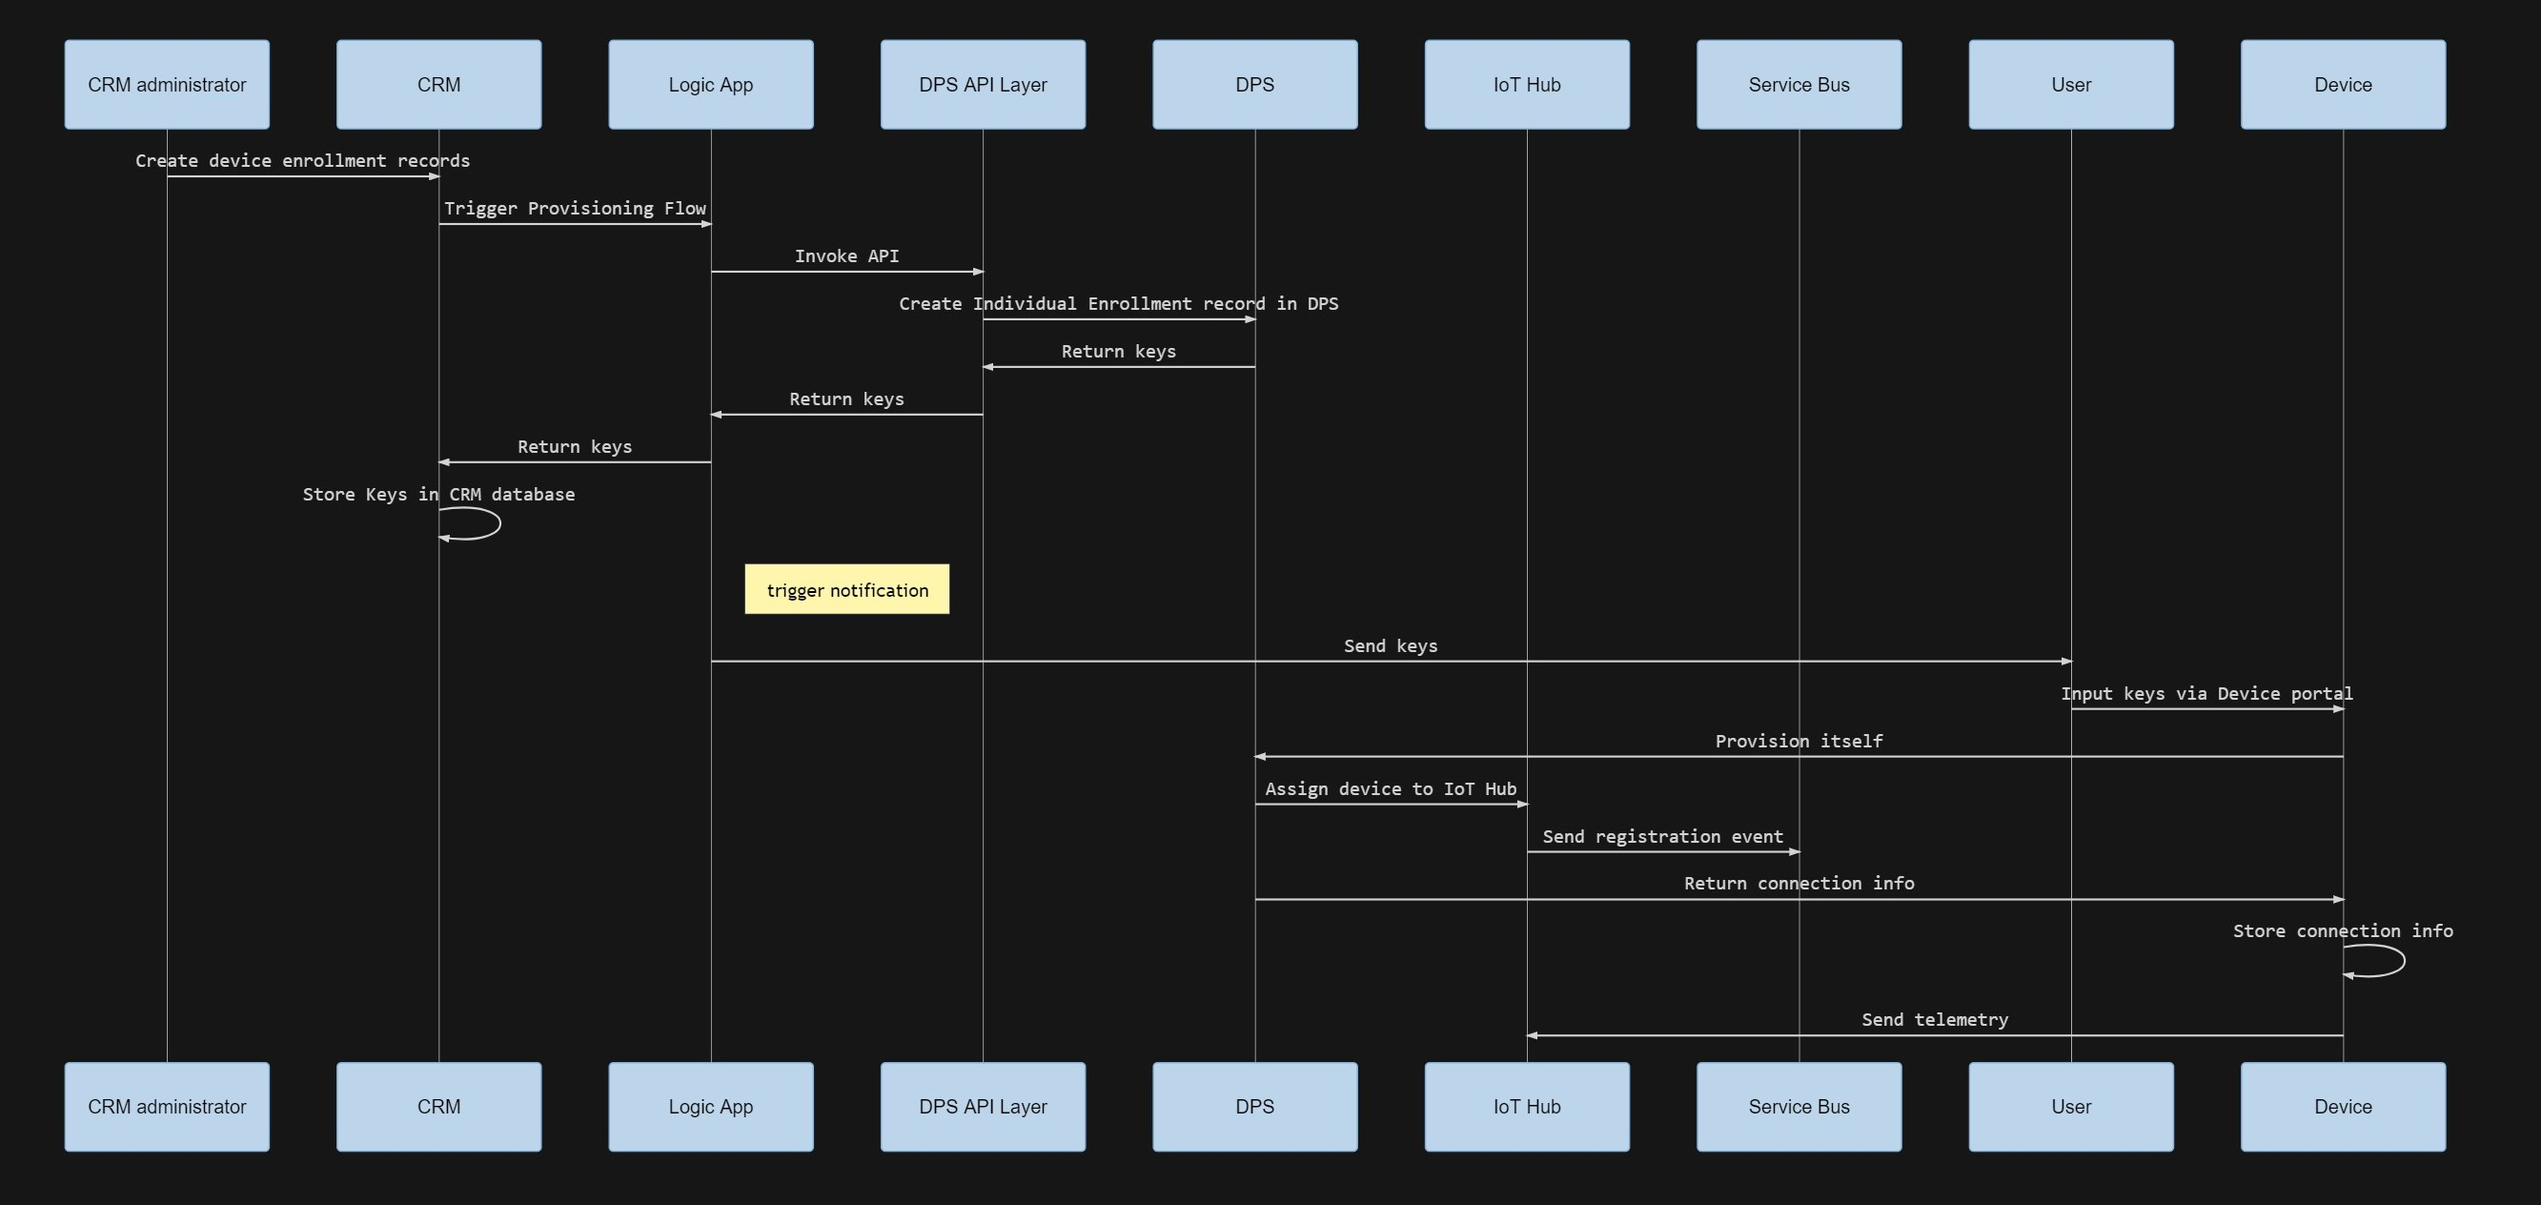
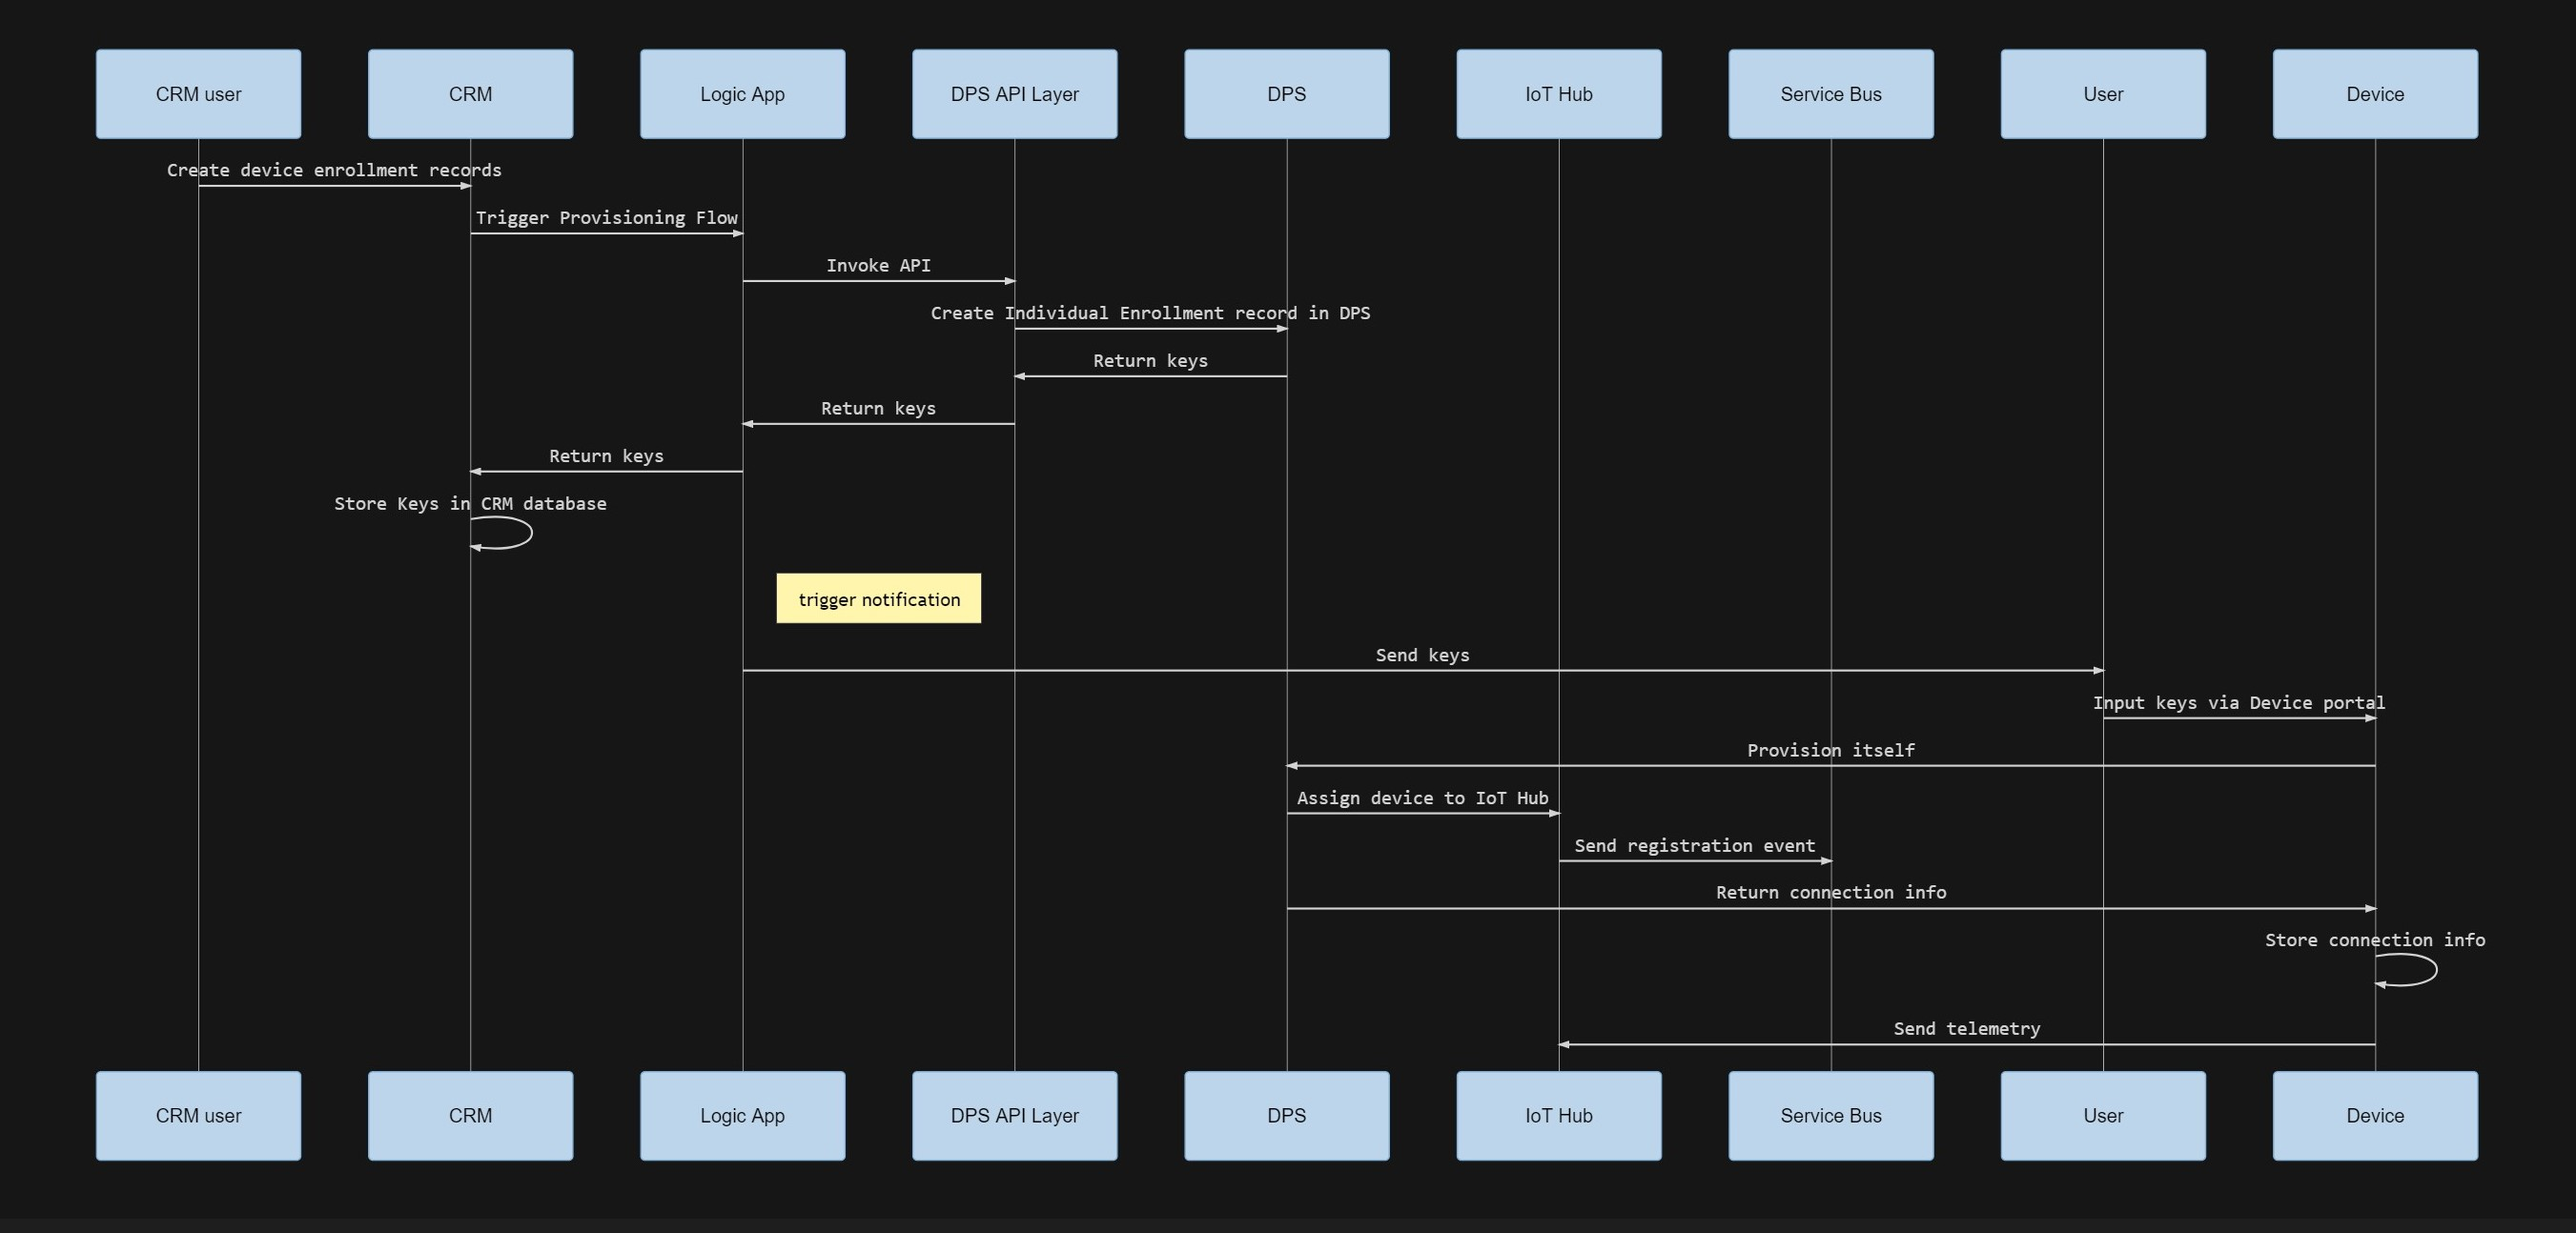
update terms

diff --git a/docs/img/provisioning-flow.md b/docs/img/provisioning-flow.md
@@ -2,7 +2,7 @@
 
 ```mermaid
 sequenceDiagram
-    participant CRM administrator
+    participant CRM user
     participant CRM
     participant Logic App
     participant DPS API Layer
@@ -13,7 +13,7 @@ sequenceDiagram
     participant User
     participant Device
 
-    CRM administrator->>CRM: Create device enrollment records
+    CRM user->>CRM: Create device enrollment records
     CRM ->> Logic App: Trigger Provisioning Flow
     Logic App ->> DPS API Layer: Invoke API
     DPS API Layer ->> DPS: Create Individual Enrollment record in DPS

diff --git a/readme.md b/readme.md
@@ -2,7 +2,7 @@
 
 In this demo, there are following participants involved in device provisioning process.
 
-- CRM administrator
+- CRM user
   
   Who is in charge of managing devices from asset perspective. When a device is delivered to the solution provider by manufacturer, he inputs device information to the solution provider's backend system. And record to which customer this device is sold to.
 
